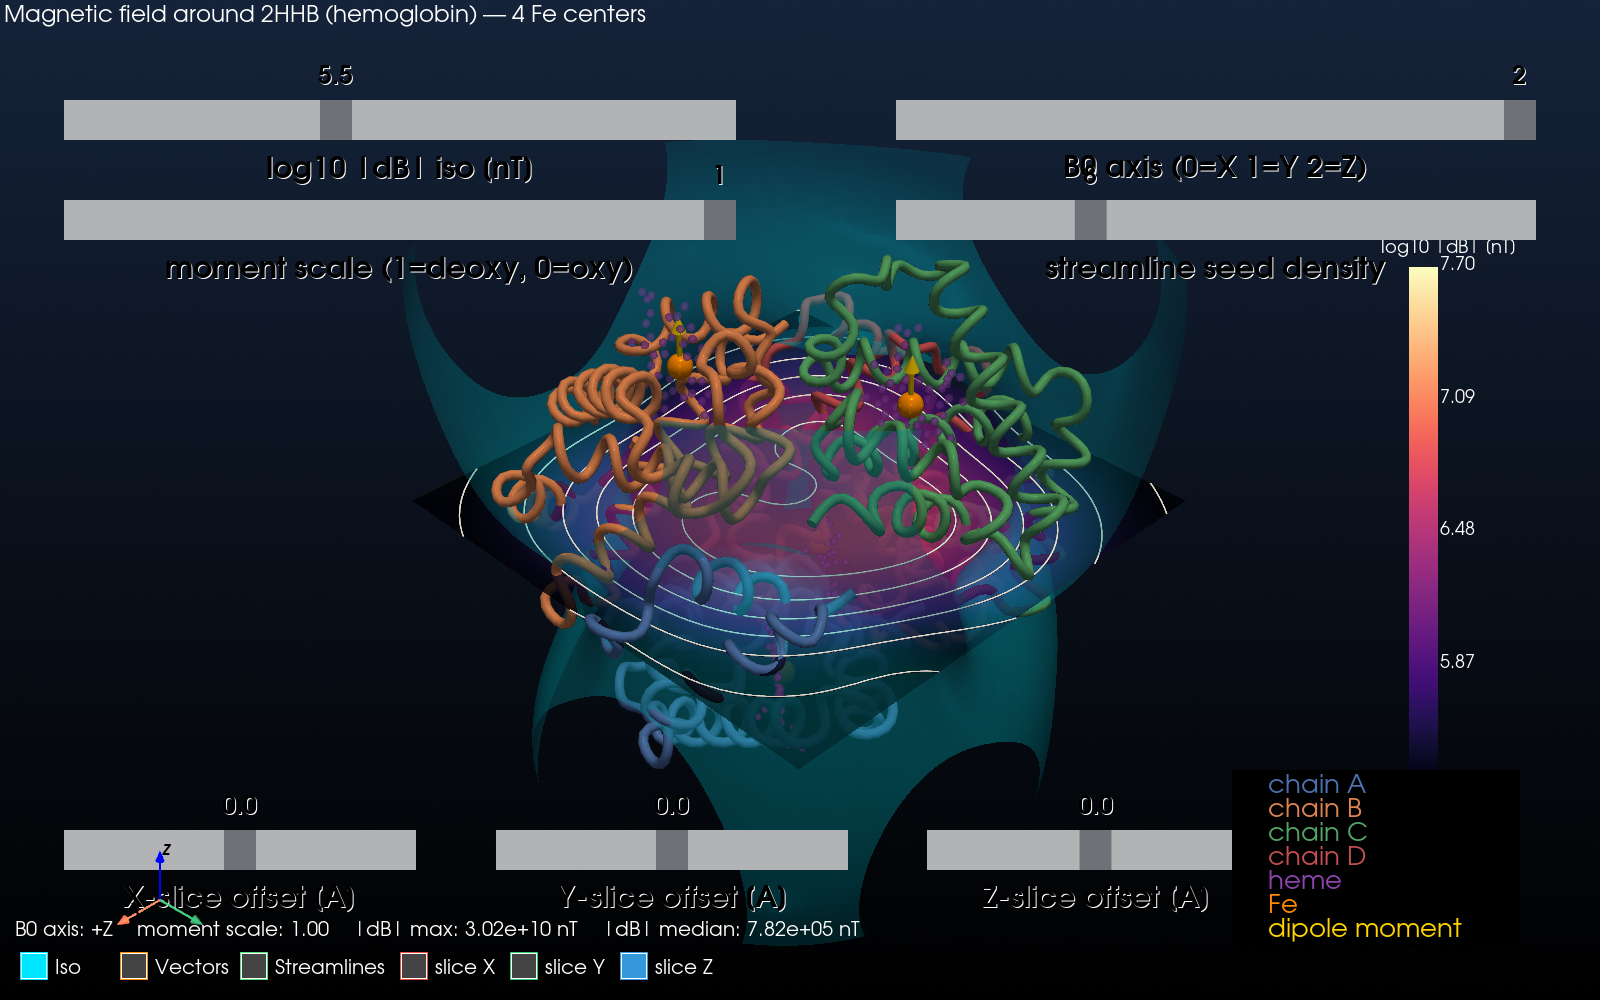
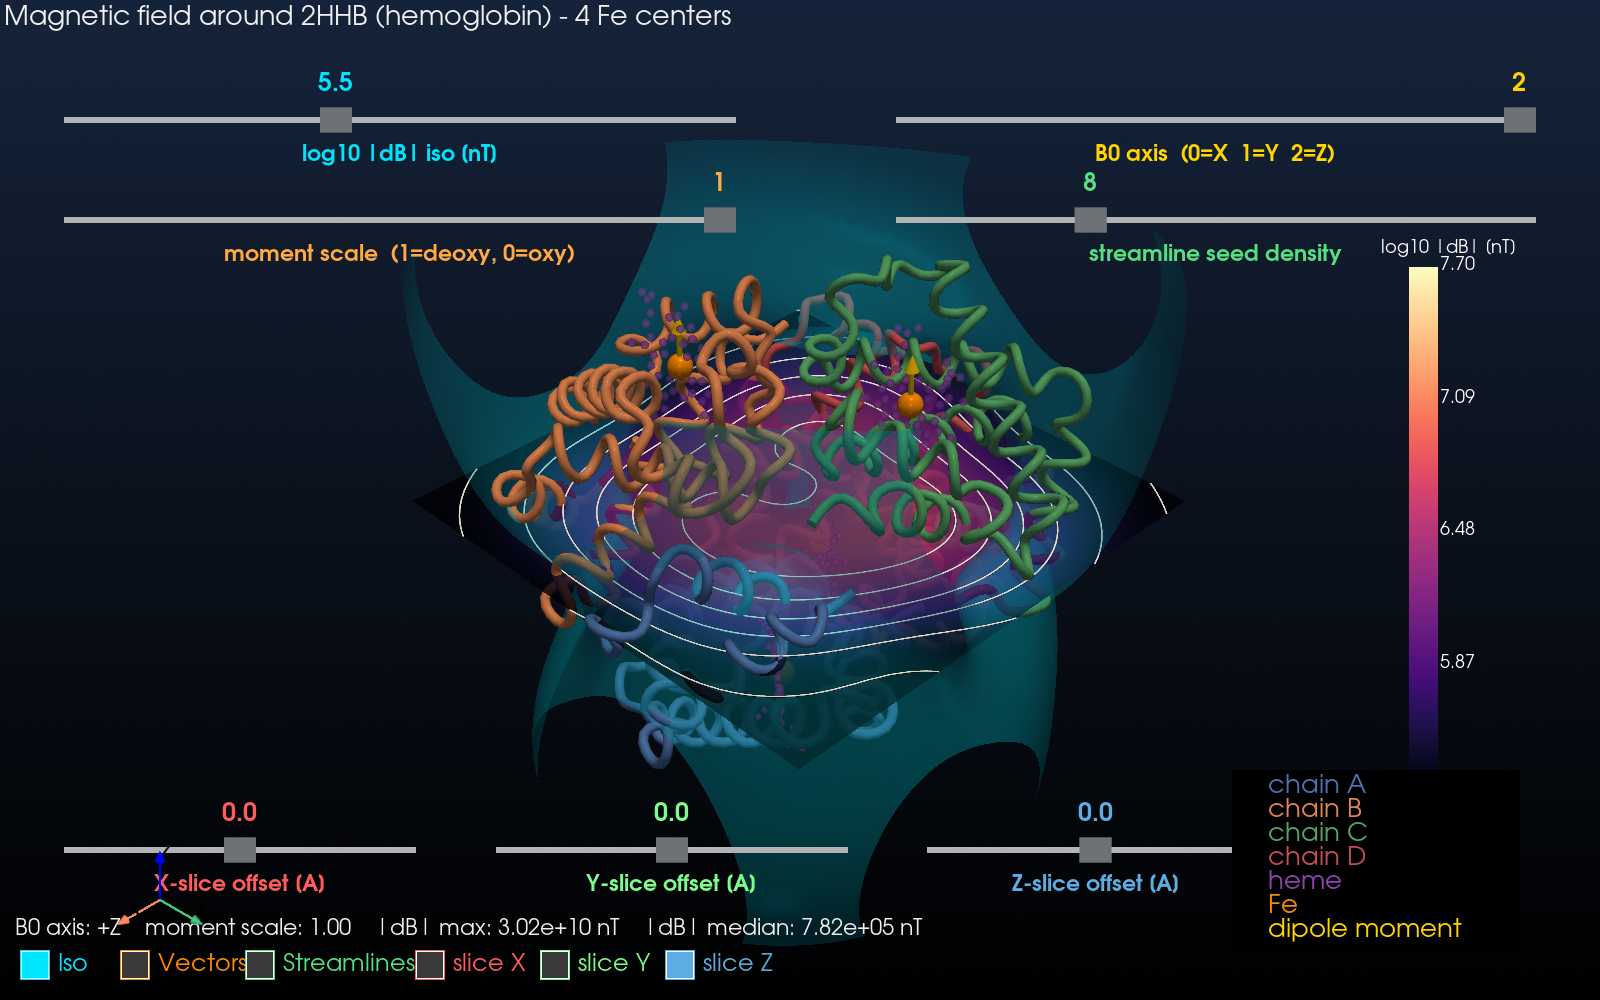
ui: color-code slider titles and button labels by layer
Every slider title and toggle-button label now uses the same color as
the visualization layer it controls, so the GUI is self-documenting at
a glance:

  * iso surface          - cyan
  * vector glyphs        - orange
  * streamlines          - mint green
  * X / Y / Z slices     - red / lime / sky blue
  * B0 axis              - gold (matches the dipole-moment arrows)
  * moment scale         - amber

Slider titles are now bold sans-serif with the matching layer color and
a shrunken knob (slider_width 0.025), so the knob no longer overlaps
the title text - the previous all-white titles were illegible where the
knob covered them ('log10 |dB| iso' read as 'logio laBl iso').

Title and status-text fonts bumped to 14 / 11 pt for legibility.

Also refreshes the three README screenshots with the new color scheme.

diff --git a/src/visualizer.py b/src/visualizer.py
@@ -50,6 +50,19 @@ FE_COLOR = "#FF8C00"     # orange
 HEM_COLOR = "#8E44AD"    # violet
 DIPOLE_ARROW_COLOR = "#FFD400"
 
+# Per-layer colors used to color-code every label, slider title, and toggle
+# button. The same color is shared between a layer's visualization actor
+# and its UI controls, so the GUI is self-documenting.
+ISO_COLOR        = "#00E5FF"   # cyan
+VECTORS_COLOR    = "#FF8C00"   # orange
+STREAM_COLOR     = "#55E07F"   # mint green
+SLICE_X_COLOR    = "#FF5C5C"   # bright red
+SLICE_Y_COLOR    = "#7CFC8A"   # bright lime
+SLICE_Z_COLOR    = "#5DADE2"   # bright sky blue
+B0_TITLE_COLOR   = "#FFD400"   # gold - matches the dipole arrows
+MOMENT_COLOR     = "#FFA940"   # warm amber
+INFO_TEXT_COLOR  = "#F0F0F0"   # near-white for static info labels
+
 
 class HemoglobinFieldGUI:
     """Stateful interactive plotter for the dipole-field visualization."""
@@ -392,140 +405,192 @@ class HemoglobinFieldGUI:
 
     # ----------------------------------------------------------- widgets/UI
 
+    def _styled_slider(
+        self,
+        callback,
+        rng,
+        value,
+        title,
+        pointa,
+        pointb,
+        title_color,
+        fmt=None,
+    ):
+        """Add a slider with consistent, high-contrast styling.
+
+        The title and the active value label both render in `title_color`
+        with a slightly bold sans font, and the slider knob is shrunk so
+        it does not visually clobber the title text.
+        """
+        kwargs = dict(
+            callback=callback,
+            rng=rng,
+            value=value,
+            title=title,
+            pointa=pointa,
+            pointb=pointb,
+            style="modern",
+            title_color=title_color,
+            title_height=0.022,
+            title_opacity=1.0,
+            slider_width=0.025,         # smaller knob -> less overlap with title
+            tube_width=0.006,           # slightly thicker track for visibility
+        )
+        if fmt is not None:
+            kwargs["fmt"] = fmt
+        slider = self.plotter.add_slider_widget(**kwargs)
+
+        # Also color and bold the slider's value-label text via the underlying
+        # VTK representation (PyVista's add_slider_widget doesn't expose it).
+        try:
+            rep = slider.GetRepresentation()
+            for prop in (rep.GetLabelProperty(), rep.GetTitleProperty()):
+                r = int(title_color[1:3], 16) / 255.0
+                g = int(title_color[3:5], 16) / 255.0
+                b = int(title_color[5:7], 16) / 255.0
+                prop.SetColor(r, g, b)
+                prop.SetBold(True)
+                prop.SetFontFamilyToArial()
+                prop.SetShadow(False)
+        except Exception:  # noqa: BLE001
+            pass
+        return slider
+
     def _add_widgets(self) -> None:
         # Top: two rows of "what to compute" sliders.
-        self.plotter.add_slider_widget(
+        self._styled_slider(
             callback=self._set_iso_log10,
             rng=[3.5, 8.5],
             value=self.state["iso_log10_nT"],
             title="log10 |dB| iso [nT]",
             pointa=(0.03, 0.88), pointb=(0.47, 0.88),
-            style="modern",
+            title_color=ISO_COLOR,
         )
-        self.plotter.add_slider_widget(
+        self._styled_slider(
             callback=self._set_b0_axis,
             rng=[0.0, 2.0],
             value=float(self.state["b0_axis"]),
-            title="B0 axis (0=X 1=Y 2=Z)",
+            title="B0 axis  (0=X  1=Y  2=Z)",
             pointa=(0.55, 0.88), pointb=(0.97, 0.88),
             fmt="%.0f",
-            style="modern",
+            title_color=B0_TITLE_COLOR,
         )
-        self.plotter.add_slider_widget(
+        self._styled_slider(
             callback=self._set_moment_scale,
             rng=[0.0, 1.0],
             value=self.state["moment_scale"],
-            title="moment scale (1=deoxy, 0=oxy)",
+            title="moment scale  (1=deoxy, 0=oxy)",
             pointa=(0.03, 0.78), pointb=(0.47, 0.78),
-            style="modern",
+            title_color=MOMENT_COLOR,
         )
-        self.plotter.add_slider_widget(
+        self._styled_slider(
             callback=self._set_stream_density,
             rng=[3, 20],
             value=self.state["stream_density"],
             title="streamline seed density",
             pointa=(0.55, 0.78), pointb=(0.97, 0.78),
             fmt="%.0f",
-            style="modern",
+            title_color=STREAM_COLOR,
         )
 
         # Bottom: one row of "where is the slice plane" sliders, one per
         # axis. They scan the corresponding cross-section through the field
         # grid (range = +/- the grid half-extent, in Angstroms).
         he = float(self.grid_half_extent)
-        self.plotter.add_slider_widget(
+        self._styled_slider(
             callback=self._set_slice_x_offset,
             rng=[-he, he],
             value=self.state["slice_x_offset"],
             title="X-slice offset [A]",
             pointa=(0.03, 0.15), pointb=(0.27, 0.15),
             fmt="%.1f",
-            style="modern",
+            title_color=SLICE_X_COLOR,
         )
-        self.plotter.add_slider_widget(
+        self._styled_slider(
             callback=self._set_slice_y_offset,
             rng=[-he, he],
             value=self.state["slice_y_offset"],
             title="Y-slice offset [A]",
             pointa=(0.30, 0.15), pointb=(0.54, 0.15),
             fmt="%.1f",
-            style="modern",
+            title_color=SLICE_Y_COLOR,
         )
-        self.plotter.add_slider_widget(
+        self._styled_slider(
             callback=self._set_slice_z_offset,
             rng=[-he, he],
             value=self.state["slice_z_offset"],
             title="Z-slice offset [A]",
             pointa=(0.57, 0.15), pointb=(0.80, 0.15),
             fmt="%.1f",
-            style="modern",
+            title_color=SLICE_Z_COLOR,
         )
 
-        # Toggle buttons (bottom row, left to right).
+        # Toggle buttons (bottom row, left to right). Each button's label
+        # is color-matched to the layer it toggles so the GUI is
+        # self-documenting at a glance.
         self.plotter.add_checkbox_button_widget(
             self._toggle_iso, value=self.state["show_iso"],
-            position=(20, 20), size=28, border_size=2,
-            color_on="#00E5FF", color_off="#444444",
+            position=(20, 20), size=30, border_size=2,
+            color_on=ISO_COLOR, color_off="#3a3a3a",
         )
         self.plotter.add_text(
-            "Iso", position=(55, 22), font_size=10, color="white", name="lbl_iso"
+            "Iso", position=(58, 24), font_size=12, color=ISO_COLOR,
+            font="arial", name="lbl_iso",
         )
         self.plotter.add_checkbox_button_widget(
             self._toggle_vectors, value=self.state["show_vectors"],
-            position=(120, 20), size=28, border_size=2,
-            color_on="#FF8C00", color_off="#444444",
+            position=(120, 20), size=30, border_size=2,
+            color_on=VECTORS_COLOR, color_off="#3a3a3a",
         )
         self.plotter.add_text(
-            "Vectors", position=(155, 22), font_size=10, color="white",
-            name="lbl_vec",
+            "Vectors", position=(158, 24), font_size=12, color=VECTORS_COLOR,
+            font="arial", name="lbl_vec",
         )
         self.plotter.add_checkbox_button_widget(
             self._toggle_streamlines, value=self.state["show_streamlines"],
-            position=(240, 20), size=28, border_size=2,
-            color_on="#55E07F", color_off="#444444",
+            position=(245, 20), size=30, border_size=2,
+            color_on=STREAM_COLOR, color_off="#3a3a3a",
         )
         self.plotter.add_text(
-            "Streamlines", position=(275, 22), font_size=10, color="white",
-            name="lbl_str",
+            "Streamlines", position=(283, 24), font_size=12, color=STREAM_COLOR,
+            font="arial", name="lbl_str",
         )
-        # Three independent slice toggles (X red, Y green, Z blue - standard
-        # axis colors). Each one enables/disables its own cross-section.
         self.plotter.add_checkbox_button_widget(
             self._toggle_slice_x, value=self.state["show_slice_x"],
-            position=(400, 20), size=28, border_size=2,
-            color_on="#E74C3C", color_off="#444444",
+            position=(415, 20), size=30, border_size=2,
+            color_on=SLICE_X_COLOR, color_off="#3a3a3a",
         )
         self.plotter.add_text(
-            "slice X", position=(435, 22), font_size=10, color="white",
-            name="lbl_sx",
+            "slice X", position=(453, 24), font_size=12, color=SLICE_X_COLOR,
+            font="arial", name="lbl_sx",
         )
         self.plotter.add_checkbox_button_widget(
             self._toggle_slice_y, value=self.state["show_slice_y"],
-            position=(510, 20), size=28, border_size=2,
-            color_on="#2ECC71", color_off="#444444",
+            position=(540, 20), size=30, border_size=2,
+            color_on=SLICE_Y_COLOR, color_off="#3a3a3a",
         )
         self.plotter.add_text(
-            "slice Y", position=(545, 22), font_size=10, color="white",
-            name="lbl_sy",
+            "slice Y", position=(578, 24), font_size=12, color=SLICE_Y_COLOR,
+            font="arial", name="lbl_sy",
         )
         self.plotter.add_checkbox_button_widget(
             self._toggle_slice_z, value=self.state["show_slice_z"],
-            position=(620, 20), size=28, border_size=2,
-            color_on="#3498DB", color_off="#444444",
+            position=(665, 20), size=30, border_size=2,
+            color_on=SLICE_Z_COLOR, color_off="#3a3a3a",
         )
         self.plotter.add_text(
-            "slice Z", position=(655, 22), font_size=10, color="white",
-            name="lbl_sz",
+            "slice Z", position=(703, 24), font_size=12, color=SLICE_Z_COLOR,
+            font="arial", name="lbl_sz",
         )
 
     def _add_title_and_legend(self) -> None:
         title = (
             f"Magnetic field around {self.structure.pdb_id} "
-            f"(hemoglobin) — {self.structure.iron_positions.shape[0]} Fe centers"
+            f"(hemoglobin) - {self.structure.iron_positions.shape[0]} Fe centers"
         )
         self.plotter.add_text(
-            title, position="upper_left", font_size=12, color="white",
-            name="title",
+            title, position="upper_left", font_size=14, color=INFO_TEXT_COLOR,
+            font="arial", name="title",
         )
 
         legend_entries = []
@@ -563,10 +628,10 @@ class HemoglobinFieldGUI:
             f"|dB| max: {finite.max():.2e} nT    "
             f"|dB| median: {np.median(finite):.2e} nT"
         )
-        # Anchor by pixel so it sits cleanly under the title, well clear
-        # of the sliders (which occupy the top ~16% of the window).
+        # Anchor by pixel so it sits cleanly above the toggle-button row.
         self.plotter.add_text(
-            text, position=(15, 60), font_size=10, color="white", name="status",
+            text, position=(15, 60), font_size=11, color=INFO_TEXT_COLOR,
+            font="arial", name="status",
         )
 
     # ----------------------------------------------------- widget callbacks
